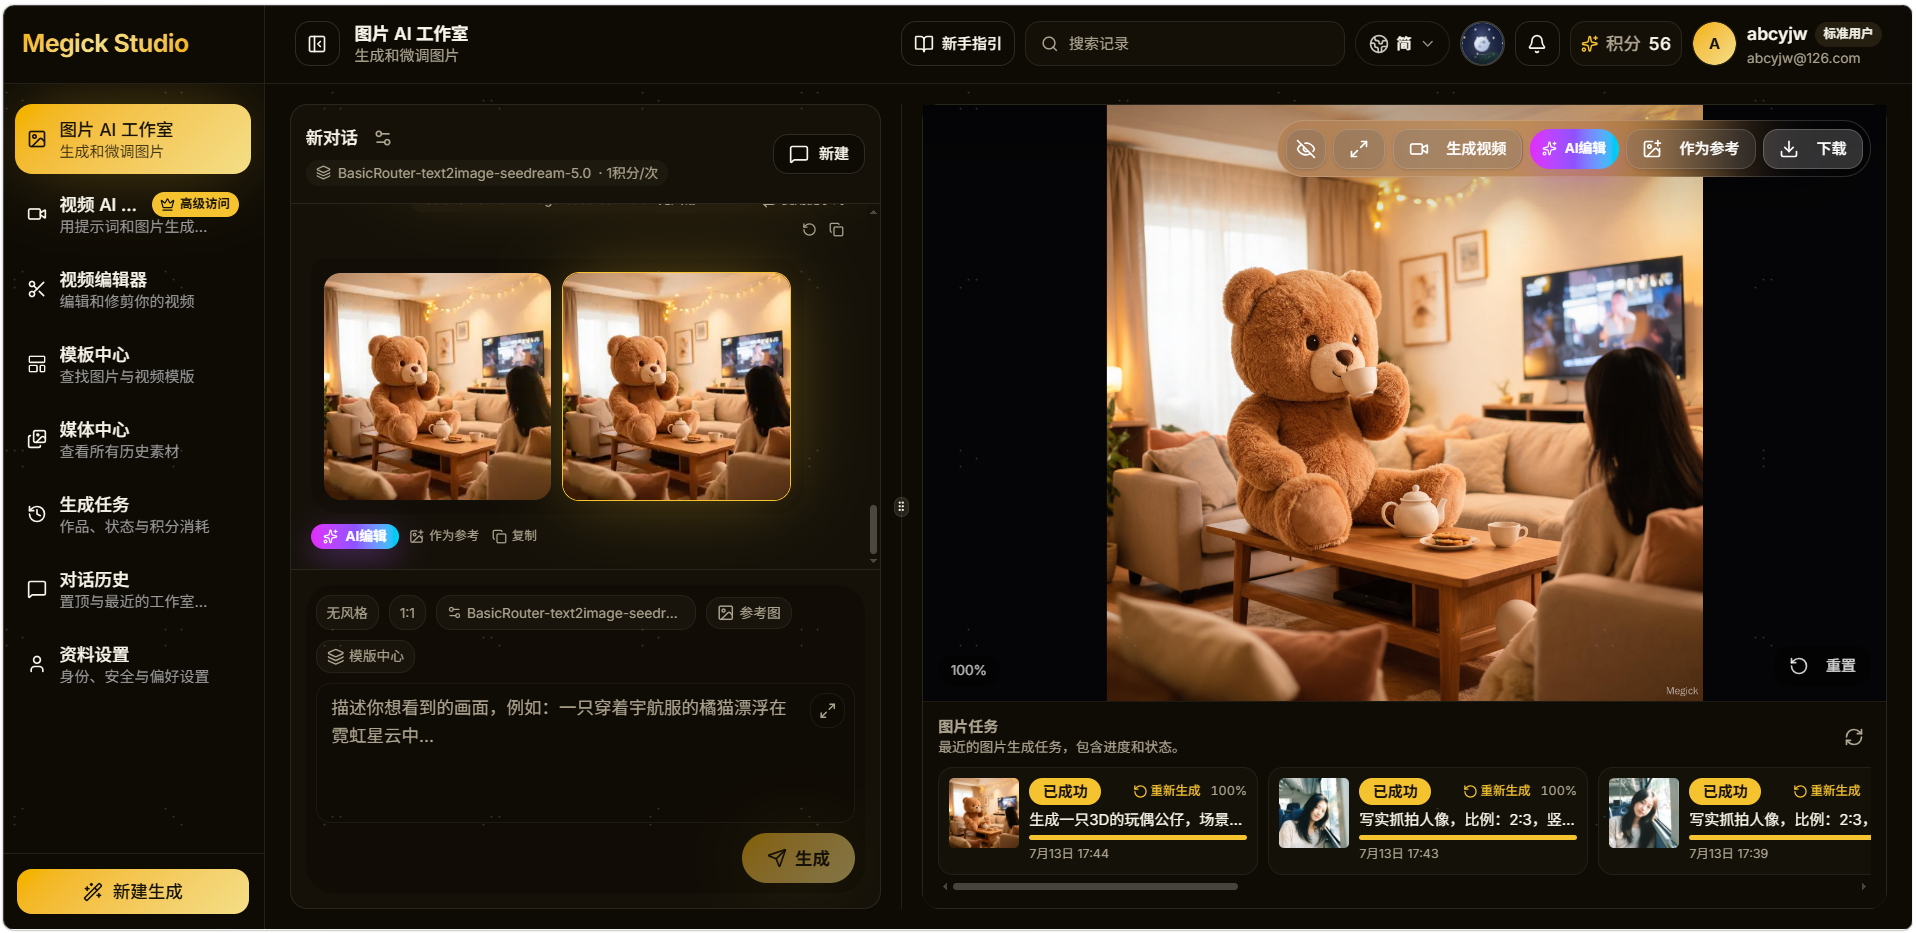
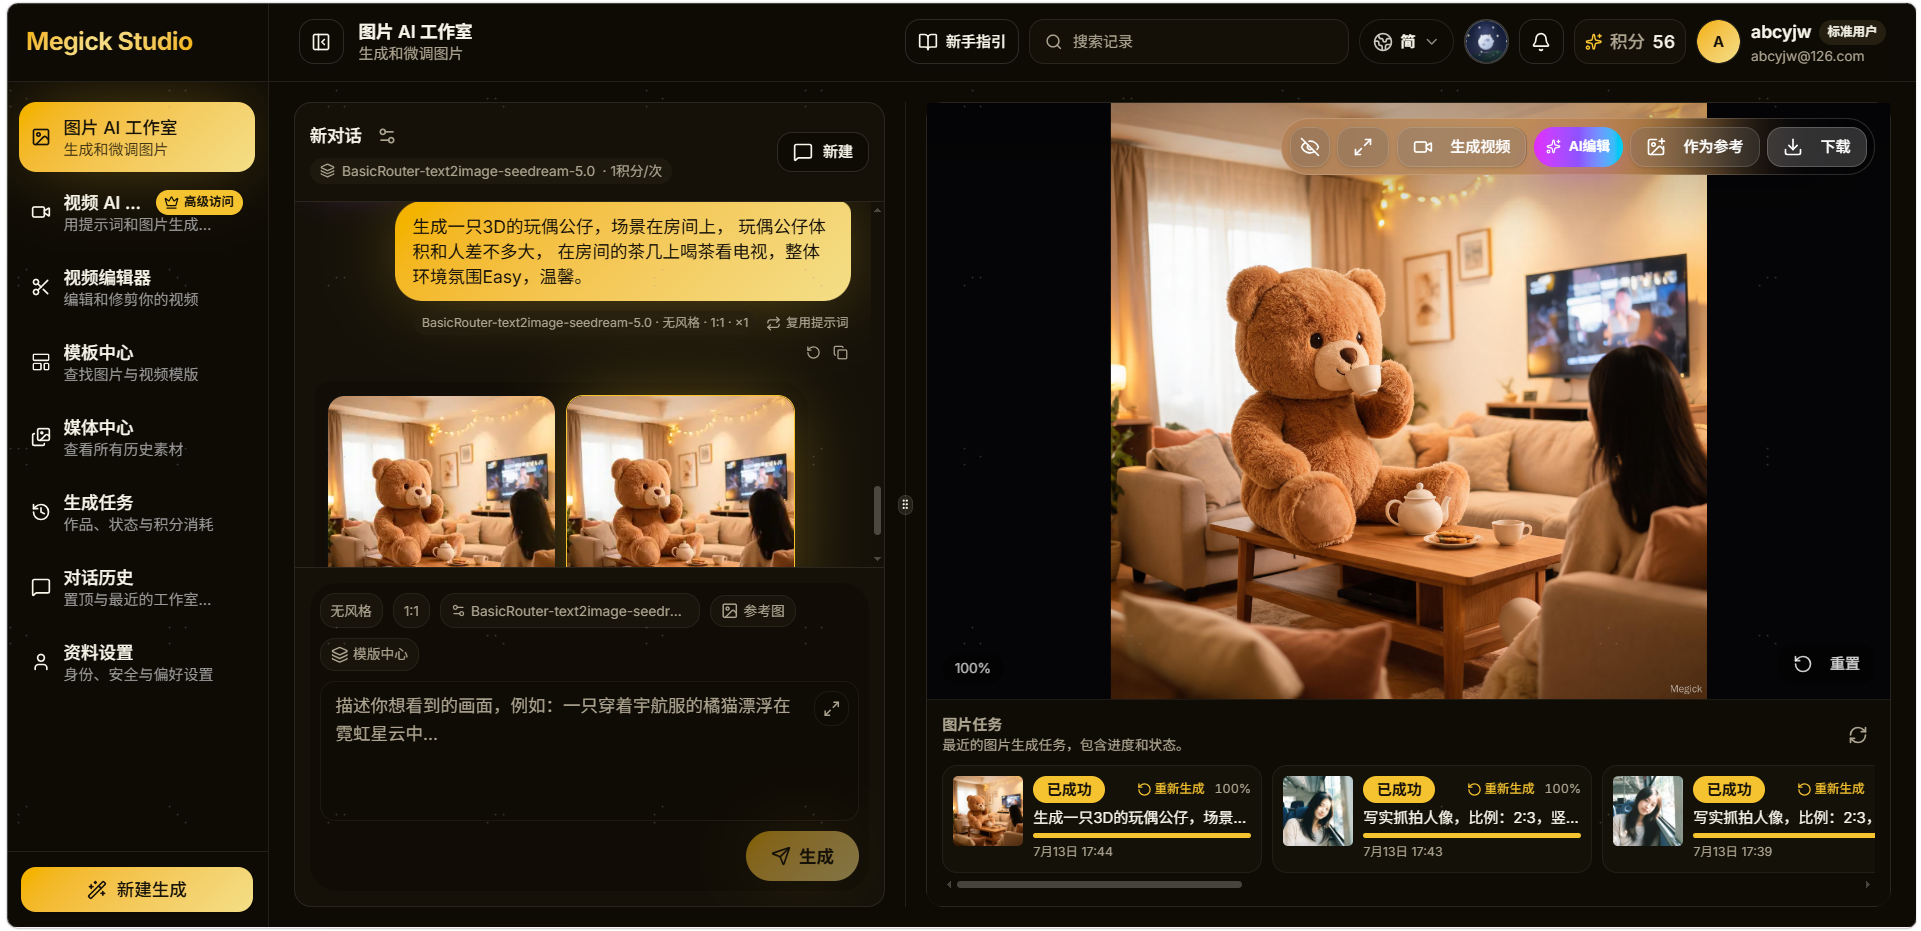
fix(web): refresh homepage hero preview image and layout

diff --git a/apps/web/src/components/OfficialHomePageRich.tsx b/apps/web/src/components/OfficialHomePageRich.tsx
@@ -96,19 +96,31 @@ function DesktopDownloadButton({ platform, release, loading }: { platform: Deskt
   );
 }
 
+const HOME_PREVIEW_SRC = "/index.jpg?v=2";
+const HOME_PREVIEW_WIDTH = 1921;
+const HOME_PREVIEW_HEIGHT = 931;
+
 function DesktopPreview({ onClick }: { onClick: () => void }) {
   return (
-    <button type="button" onClick={onClick}
-      className="relative mx-auto w-full max-w-[884px] cursor-pointer overflow-hidden bg-transparent p-0 text-left focus-visible:outline-none focus-visible:ring-2 focus-visible:ring-ring lg:ml-auto"
-      aria-label="Megick Studio desktop app preview">
+    <button
+      type="button"
+      onClick={onClick}
+      className="group relative mx-auto w-full max-w-[min(100%,1040px)] origin-center cursor-pointer overflow-hidden rounded-[1.1rem] border p-0 text-left shadow-[0_28px_80px_rgba(0,0,0,0.32)] transition-[transform,box-shadow] duration-500 hover:-translate-y-1 hover:shadow-[0_36px_100px_rgba(0,0,0,0.4)] focus-visible:outline-none focus-visible:ring-2 focus-visible:ring-ring lg:ml-auto lg:[transform:perspective(1800px)_rotateY(-7deg)] lg:hover:[transform:perspective(1800px)_rotateY(-3deg)_translateY(-4px)]"
+      style={{
+        borderColor: "color-mix(in oklab, var(--theme-primary) 30%, var(--glass-border))",
+        backgroundColor: "var(--theme-surface)",
+      }}
+      aria-label="Megick Studio desktop app preview"
+    >
       <img
-        src="/index.jpg"
-        srcSet="/index.jpg 1768w"
-        sizes="(min-width: 1024px) 48vw, 100vw"
+        src={HOME_PREVIEW_SRC}
+        width={HOME_PREVIEW_WIDTH}
+        height={HOME_PREVIEW_HEIGHT}
+        sizes="(min-width: 1024px) min(52vw, 1040px), 92vw"
         fetchPriority="high"
         decoding="async"
         alt="Megick Studio desktop app screenshot"
-        className="block w-full select-none rounded-[1.6rem] sm:rounded-[2rem]"
+        className="block aspect-[1921/931] w-full select-none object-cover object-left-top"
         draggable={false}
       />
     </button>
@@ -332,7 +344,7 @@ export function OfficialHomePageRich({
         <HomeHeroBackdrop />
         <div className="pointer-events-none absolute inset-0 z-10 bg-[radial-gradient(circle_at_18%_35%,color-mix(in_oklab,var(--theme-primary)_22%,transparent),transparent_30%),linear-gradient(115deg,transparent_0%,transparent_44%,color-mix(in_oklab,var(--theme-primary)_10%,transparent)_44.2%,transparent_70%)]" />
         <Header menuItems={clientHeaderMenuItems} />
-        <section className="relative z-20 mx-auto grid min-h-0 w-full max-w-[1440px] flex-1 grid-cols-1 gap-6 overflow-y-auto px-5 pb-[calc(2rem+env(safe-area-inset-bottom))] pt-6 sm:px-8 sm:pb-10 lg:grid-cols-[minmax(0,0.92fr)_minmax(420px,0.78fr)] lg:items-center lg:gap-10 lg:overflow-visible lg:px-12 lg:pb-12 lg:pt-0">
+        <section className="relative z-20 mx-auto grid min-h-0 w-full max-w-[1440px] flex-1 grid-cols-1 gap-6 overflow-y-auto px-5 pb-[calc(2rem+env(safe-area-inset-bottom))] pt-6 sm:px-8 sm:pb-10 lg:grid-cols-[minmax(0,0.88fr)_minmax(520px,1.08fr)] lg:items-center lg:gap-8 lg:overflow-visible lg:px-12 lg:pb-12 lg:pt-0">
           <div className="home-reveal min-w-0">
             <div className="mb-5 inline-flex items-center gap-2 rounded-full border px-3 py-1.5 text-[11px] font-medium uppercase tracking-[0.2em] sm:mb-7" style={{ borderColor: "var(--glass-border)", backgroundColor: "var(--glass-bg)", color: "var(--theme-text)" }}>
               <span className="h-1.5 w-1.5 rounded-full" style={{ backgroundColor: "var(--theme-primary)" }} />
@@ -357,7 +369,7 @@ export function OfficialHomePageRich({
           <div className="flex min-w-0 flex-col gap-5 lg:items-end">
             <DesktopPreview onClick={startCreating} />
             {showDesktopDownloads ? (
-              <div className="home-reveal w-full max-w-[884px] rounded-[1.75rem] border p-3 backdrop-blur-2xl" style={{ borderColor: "var(--glass-border)", backgroundColor: "var(--glass-bg)" }}>
+              <div className="home-reveal w-full max-w-[min(100%,1040px)] rounded-[1.75rem] border p-3 backdrop-blur-2xl" style={{ borderColor: "var(--glass-border)", backgroundColor: "var(--glass-bg)" }}>
                 <div className="mb-3 flex flex-col gap-1 px-1 sm:flex-row sm:items-end sm:justify-between">
                   <div>
                     <p className="text-sm font-semibold">{t("home.glaze.downloads.title")}</p>

diff --git a/apps/web/src/components/OfficialHomePage.tsx b/apps/web/src/components/OfficialHomePage.tsx
@@ -168,19 +168,22 @@ function DesktopPreview({ onClick }: { onClick: () => void }) {
     <button
       type="button"
       onClick={onClick}
-      className="relative mx-auto w-full max-w-[884px] cursor-pointer overflow-hidden bg-transparent p-0 text-left focus-visible:outline-none focus-visible:ring-2 focus-visible:ring-ring lg:ml-auto"
+      className="relative mx-auto w-full max-w-[min(100%,1040px)] origin-center cursor-pointer overflow-hidden rounded-[1.1rem] border p-0 text-left shadow-[0_28px_80px_rgba(0,0,0,0.32)] transition-[transform,box-shadow] duration-500 hover:-translate-y-1 hover:shadow-[0_36px_100px_rgba(0,0,0,0.4)] focus-visible:outline-none focus-visible:ring-2 focus-visible:ring-ring lg:ml-auto lg:[transform:perspective(1800px)_rotateY(-7deg)] lg:hover:[transform:perspective(1800px)_rotateY(-3deg)_translateY(-4px)]"
+      style={{
+        borderColor: "color-mix(in oklab, var(--theme-primary) 30%, var(--glass-border))",
+        backgroundColor: "var(--theme-surface)",
+      }}
       aria-label="Megick Studio desktop app preview"
     >
       <img
-        src="/index.jpg"
-        srcSet="/index.jpg 1768w"
-        sizes="(min-width: 1024px) 48vw, 100vw"
+        src="/index.jpg?v=2"
+        width={1921}
+        height={931}
+        sizes="(min-width: 1024px) min(52vw, 1040px), 92vw"
         alt="Megick Studio desktop app screenshot"
-        className="block w-full select-none rounded-[1.6rem] sm:rounded-[2rem]"
+        className="block aspect-[1921/931] w-full select-none object-cover object-left-top"
         draggable={false}
         fetchPriority="high"
-        width={1024}
-        height={623}
       />
     </button>
   );

diff --git a/apps/web/src/routes/index.tsx b/apps/web/src/routes/index.tsx
@@ -21,7 +21,7 @@ export const Route = createFileRoute("/")({
       description: translate(locale, "home.meta.description"),
       path: "/",
       locale,
-      imagePath: "/index.jpg",
+      imagePath: "/index.jpg?v=2",
       imageAlt: "Megick Studio desktop app preview",
     });
     return {
@@ -31,10 +31,9 @@ export const Route = createFileRoute("/")({
         {
           rel: "preload",
           as: "image",
-          href: "/index.jpg",
+          href: "/index.jpg?v=2",
           type: "image/jpeg",
-          imageSrcSet: "/index.jpg 1768w",
-          imageSizes: "(min-width: 1024px) 48vw, 100vw",
+          imageSizes: "(min-width: 1024px) min(52vw, 1040px), 92vw",
           fetchPriority: "high",
         },
       ],